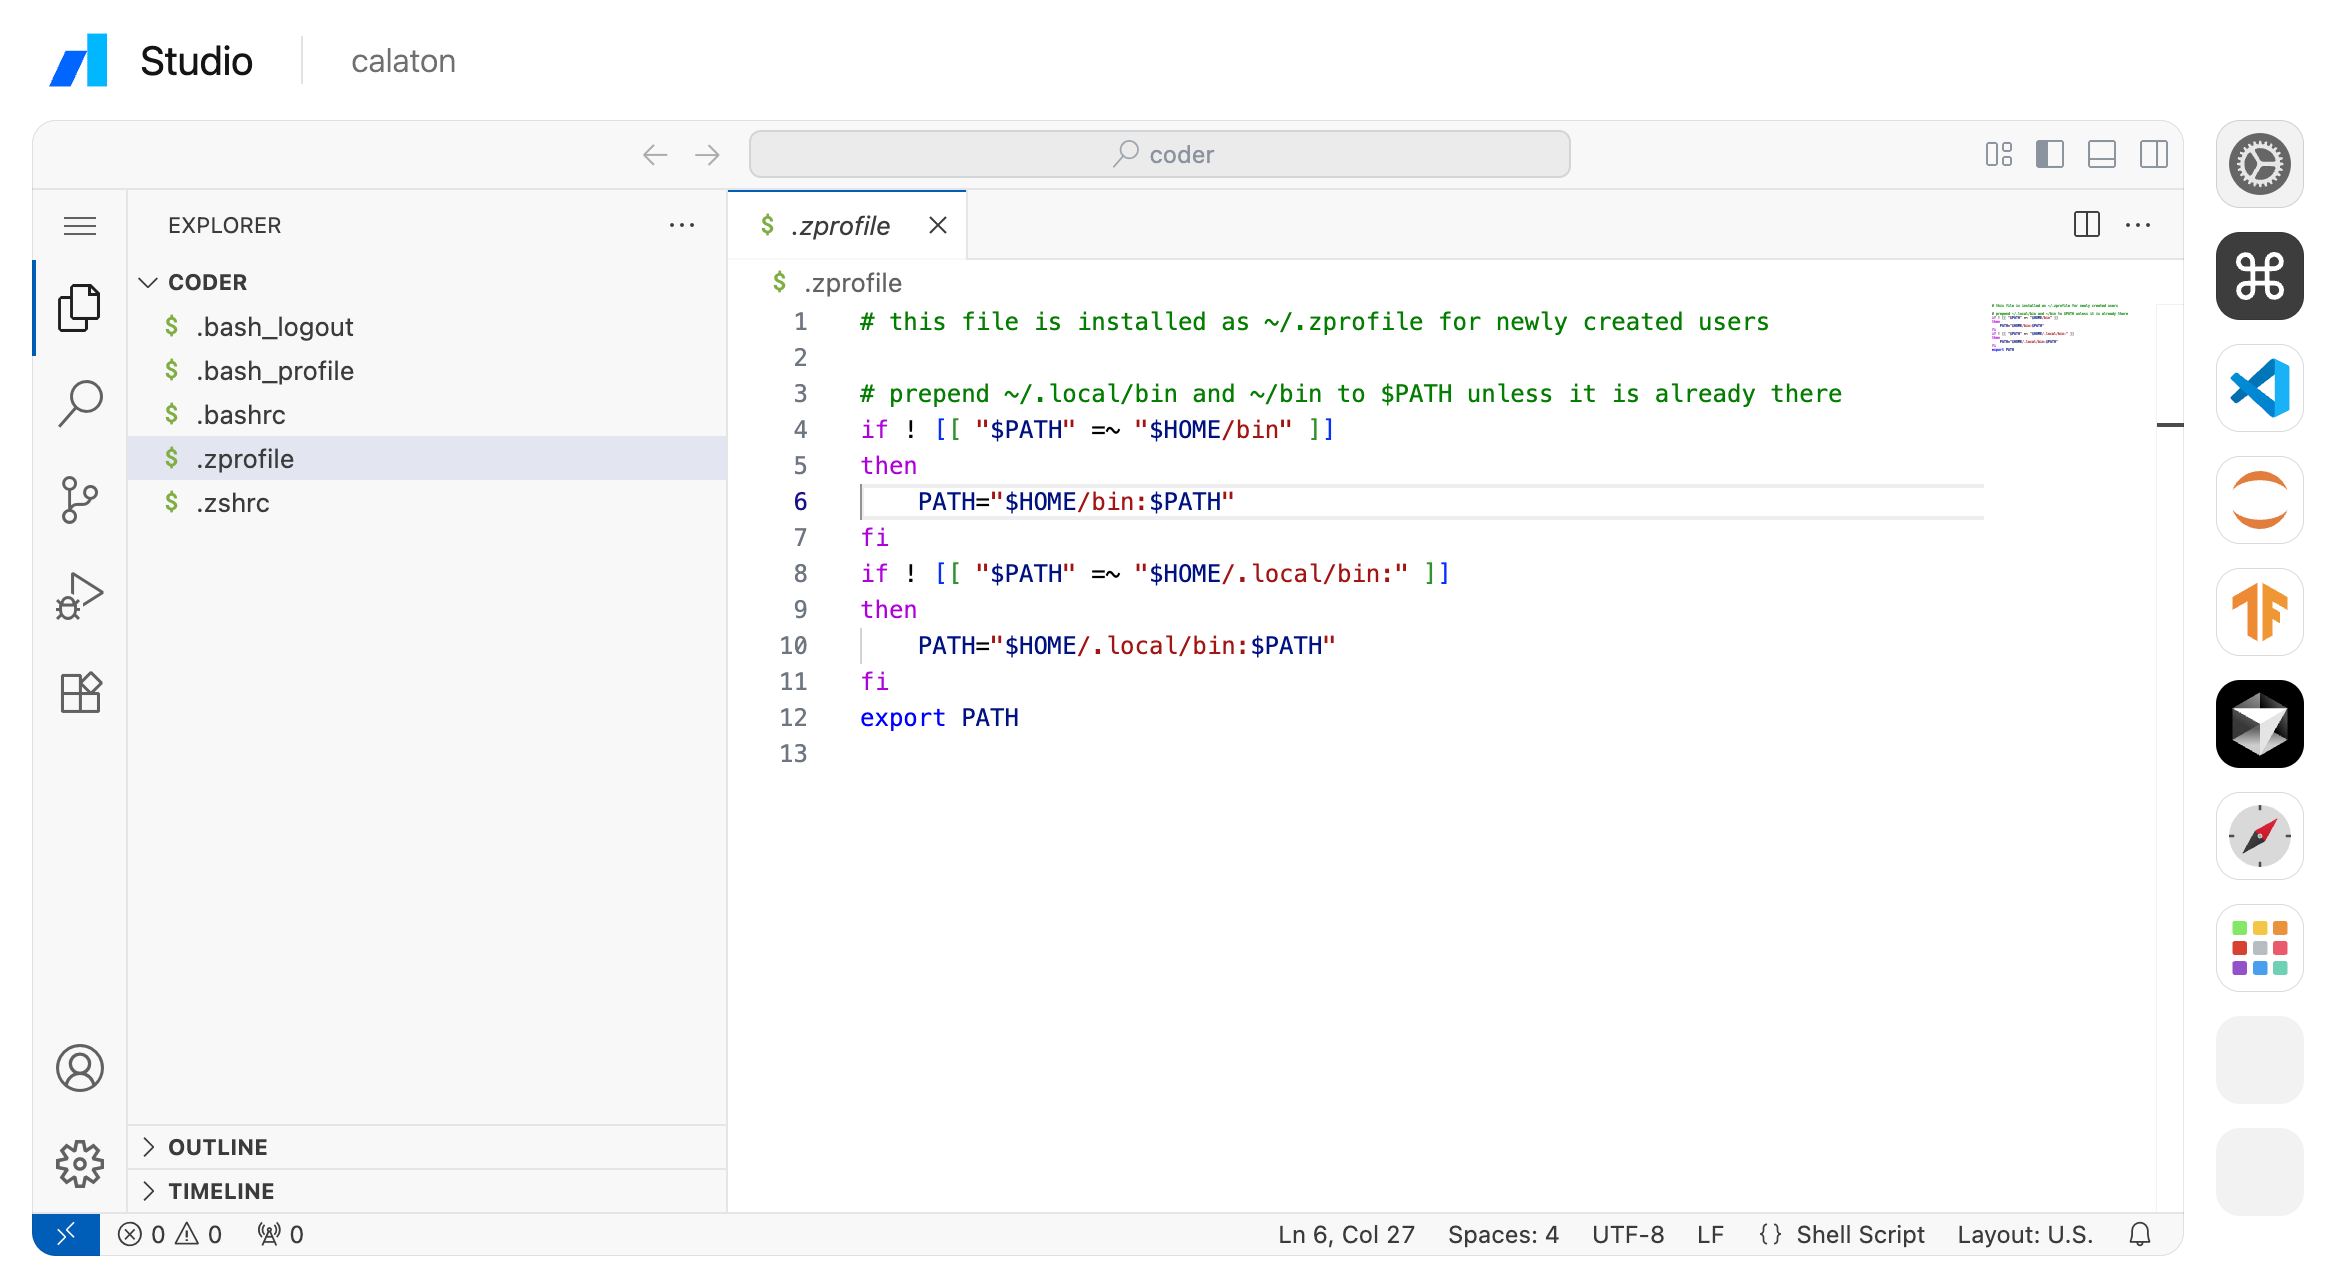
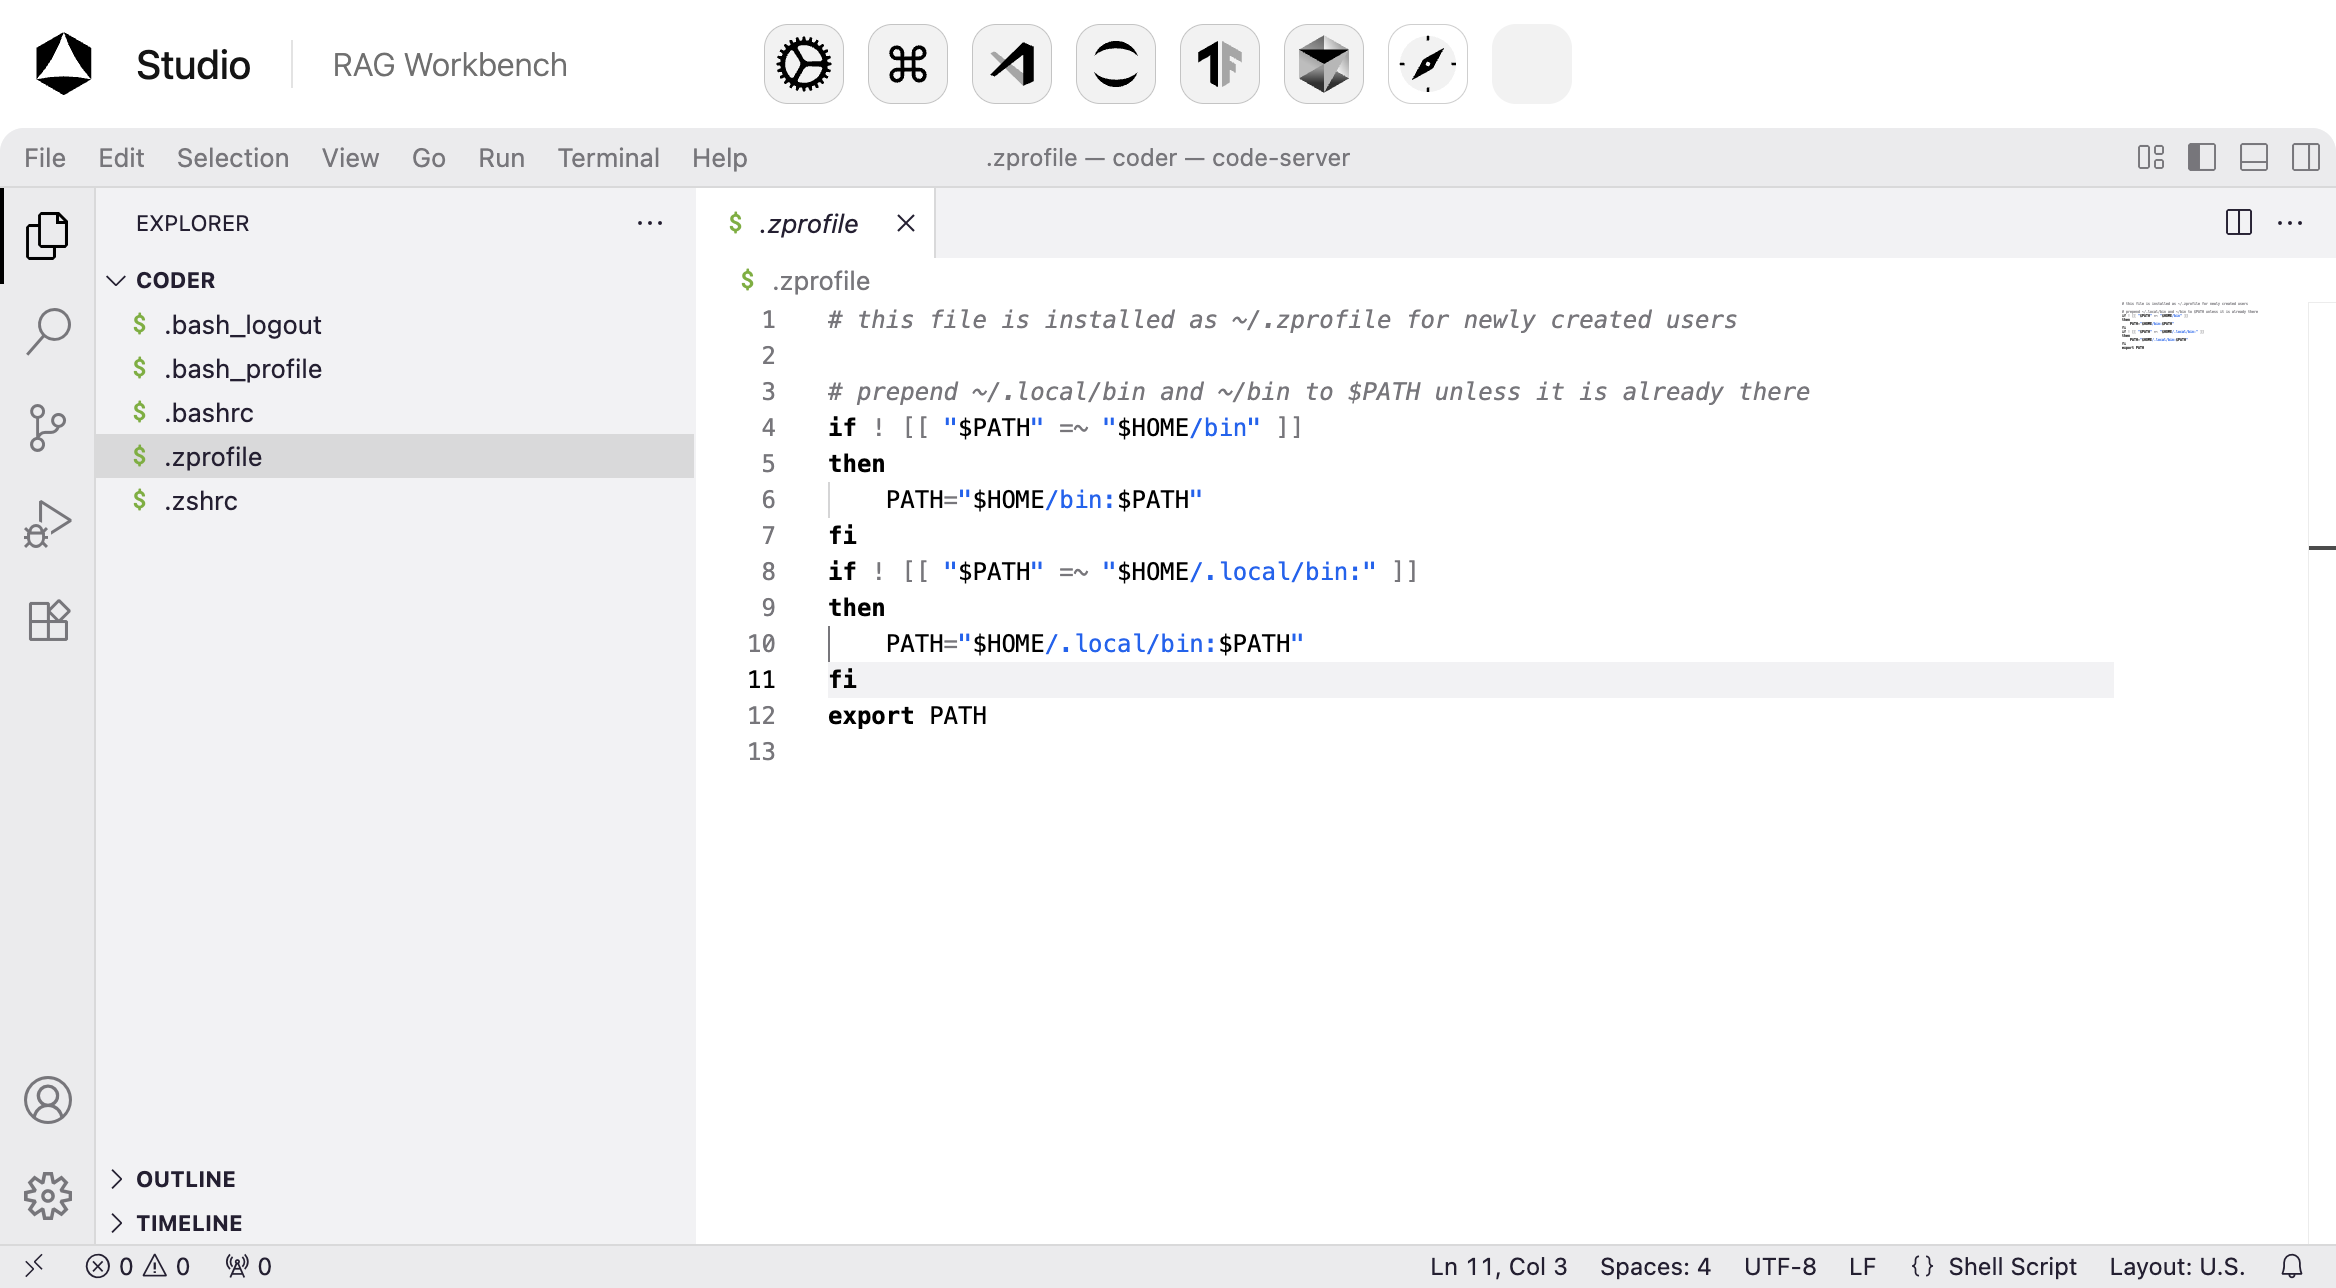
Improve design

diff --git a/data/styles/layout/_header.scss b/data/styles/layout/_header.scss
@@ -1,18 +1,20 @@
 #header {
     display: grid;
     grid-template-columns: 1fr 1fr 1fr;
+    padding: 0.75rem 1rem;
     align-items: center;
-    padding: 1rem 2rem;
 
     .header__left {
-        justify-self: start;
         display: flex;
+        column-gap: 1.25rem;
+        justify-self: start;
+        align-items: center;
 
         .left__logo {
             display: flex;
             align-items: center;
-            column-gap: 1.325rem;
-            font-weight: 400;
+            column-gap: 1.25rem;
+            font-weight: 450;
             font-size: 1.25rem;
             text-decoration: none;
             color: inherit;
@@ -41,14 +43,14 @@
             height: 2.5rem;
             overflow: hidden;
             border-radius: 0.75rem;
-            background: rgba(237, 237, 237, 0.72);
+            background: rgba(64, 64, 64, 0.07);
             cursor: pointer;
             border: none;
             padding: 0;
         }
 
         .center__item:has(img) {
-            outline: 0.5px solid rgba(13, 13, 13, 0.15);
+            outline: 0.5px solid rgba(13, 13, 13, 0.2);
             outline-offset: -0.5px;
         }
     }

diff --git a/data/templates/pages/studio.html b/data/templates/pages/studio.html
@@ -31,6 +31,9 @@
                                 image: 'codercom/code-server:4.101.2-39',
                                 command: ['/usr/bin/entrypoint.sh', '--bind-addr', '0.0.0.0:8080', '.', '--auth', 'none'],
                                 ports: { '8081': '8080' },
+                                environment: {
+                                    'CODER_AGENT_SEARCH_DISABLED': 'true',
+                                },
                             });
                         } else {
                             // Containers already running.

diff --git a/data/templates/layout/header.html b/data/templates/layout/header.html
@@ -31,11 +31,6 @@
         <button class="center__item">
             <img src="/static/images/browser.svg" draggable="false" width="100%" height="100%">
         </button>
-        <button class="center__item">
-            <img src="/static/images/drawer.svg" draggable="false" width="100%" height="100%">
-        </button>
-        {% for i in range(2) %}
         <button class="center__item"></button>
-        {% endfor %}
     </div>
 </header>

diff --git a/doc/_ext/theme/header.html b/doc/_ext/theme/header.html
@@ -3,7 +3,7 @@
     <div class="container__desktop-menu">
       {%- if logo %}
       <a href="{{ pathto(master_doc) }}" class="desktop-menu__logo">
-        <img height="26" width="110" src="{{ pathto('_static/' + logo, 1) }}" alt="Logo" />
+        <img height="32" src="{{ pathto('_static/' + logo, 1) }}" alt="Logo" />
       </a>
       {%- endif -%}
 

diff --git a/data/styles/pages/_studio.scss b/data/styles/pages/_studio.scss
@@ -2,11 +2,9 @@
     height: 100%;
 
     .studio__content {
-        opacity: 1;
         height: 100%;
         overflow: hidden;
-        border-top-left-radius: 1rem;
-        border-top-right-radius: 1rem;
-        background: rgba(64, 64, 64, 0.045);
+        border-top-left-radius: 0.75rem;
+        border-top-right-radius: 0.75rem;
     }
 }

diff --git a/data/templates/layout/navigation.html b/data/templates/layout/navigation.html
@@ -1,6 +1,6 @@
 <nav id="navigation" aria-label="Navigation">
     <a class="navigation__logo" href="/">
-        <img src="/static/images/favicon.svg" draggable="false" width="32" height="32">
+        <img src="/static/images/favicon.svg" draggable="false" height="35">
     </a>
     <div class="navigation__list">
         <!-- Menu items -->

diff --git a/doc/_ext/theme/styles/components/_hero.scss b/doc/_ext/theme/styles/components/_hero.scss
@@ -11,7 +11,7 @@
         font-size: 4.75rem;
         line-height: 6.5rem;
         letter-spacing: -.01em;
-        font-weight: 600;
+        font-weight: 650;
         max-width: 56rem;
         margin-bottom: 1.25rem;
 

diff --git a/data/styles/layout/_navigation.scss b/data/styles/layout/_navigation.scss
@@ -10,8 +10,7 @@
     padding: 1.75rem 0;
 
     .navigation__logo {
-        margin: 0 1.75rem 1.5rem;
-        height: 32px;
+        margin: 0 1.5rem 1.125rem;
         width: fit-content;
         display: block;
     }

diff --git a/doc/_ext/theme/styles/layout/_header.scss b/doc/_ext/theme/styles/layout/_header.scss
@@ -35,6 +35,7 @@
             .desktop-menu__logo {
                 display: flex;
                 align-items: center;
+                margin-left: -0.25rem;
             }
     
             .desktop-menu__navigation {
